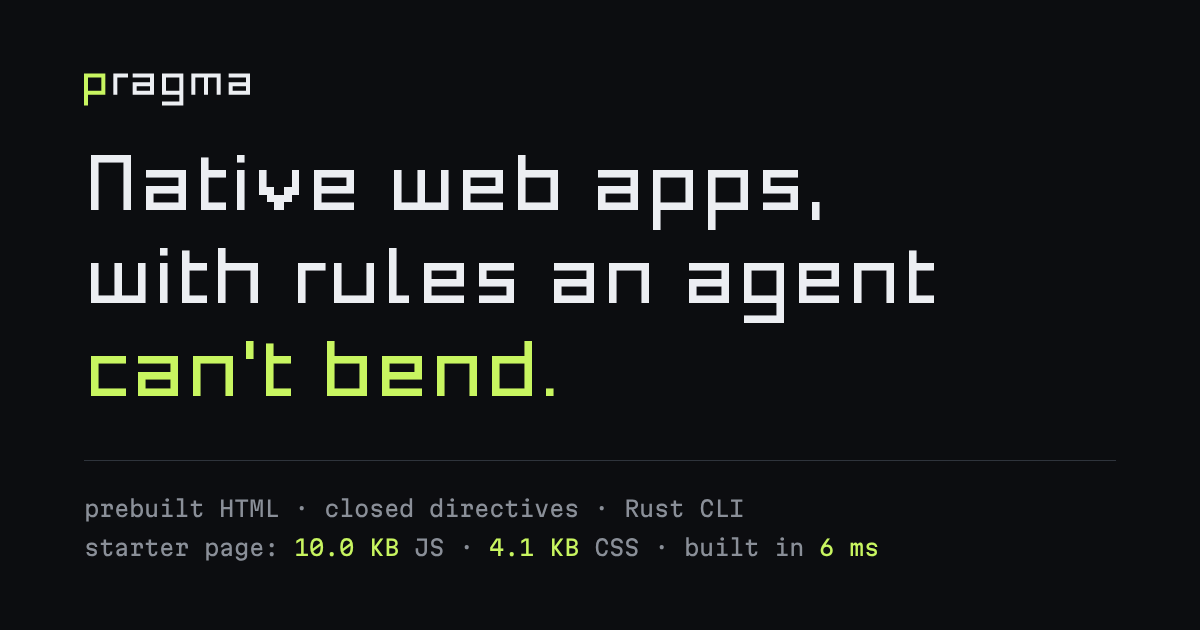
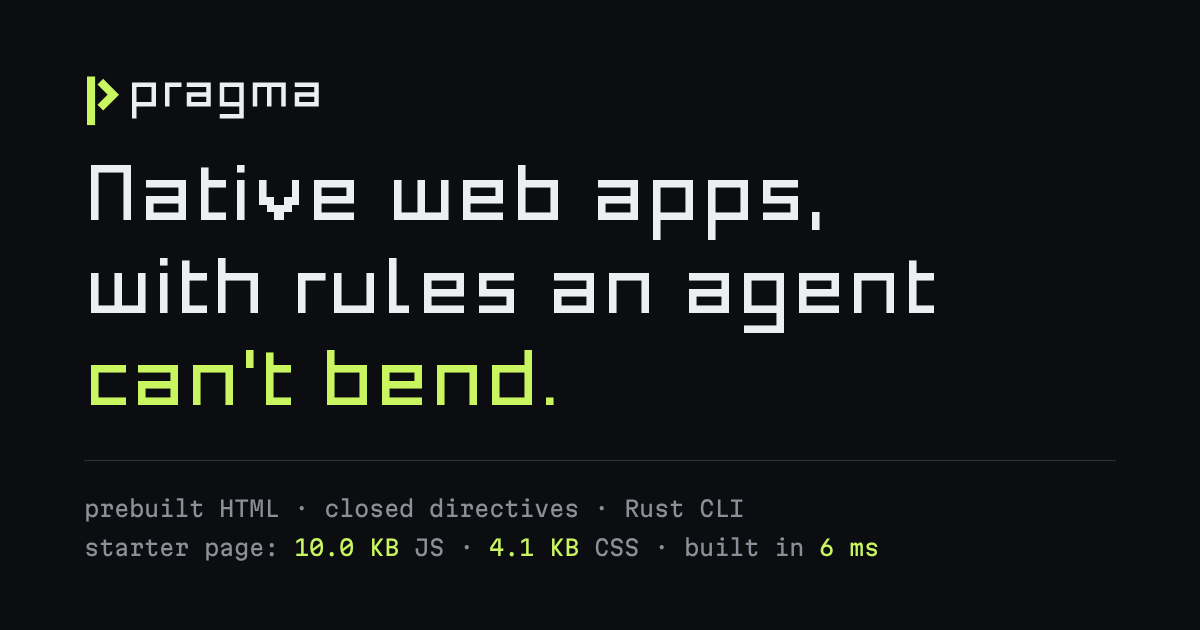
Use the Pipe mark instead of the Reto p
The mark is a bar and a chevron that make a p, as chosen in the logo
proposal. The word "pragma" next to it stays in Pragma Reto. Header,
favicons (site, starter, example), README banner and Open Graph image
use the new mark.

diff --git a/site/routes/_layout.html b/site/routes/_layout.html
@@ -19,8 +19,9 @@
 <a href="#main" class="skip-link bg-accent px-3 py-2 font-mono text-xs text-accent-ink no-underline">Skip to content</a>
 <header class="sticky top-0 z-40 border-b border-line bg-ground">
   <nav class="wrap flex h-14 items-center justify-between gap-3 font-mono text-xs" aria-label="Main">
-    <a href="/" class="flex shrink-0 items-center text-ink no-underline" aria-label="pragma home">
-      <svg width="83" height="22" viewBox="0 -7 124.5 33" fill="currentColor" fill-rule="evenodd" aria-hidden="true"><path class="text-accent" d="M0 1H16V17H3V25H0ZM3 4V14H13V4Z"></path><path d="M22 1H33V4H25V17H22Z"></path><path d="M36.5 1H52.5V17H36.5V7.5H49.5V4H36.5ZM39.5 10.5V14H49.5V10.5Z"></path><path d="M58.5 1H74.5V25H58.5V22H71.5V17H58.5ZM61.5 4V14H71.5V4Z"></path><path d="M80.5 1H102.5V17H99.5V4H93V17H90V4H83.5V17H80.5Z"></path><path d="M108.5 1H124.5V17H108.5V7.5H121.5V4H108.5ZM111.5 10.5V14H121.5V10.5Z"></path></svg>
+    <a href="/" class="flex shrink-0 items-center gap-1.5 text-ink no-underline" aria-label="pragma home">
+      <svg class="size-7 text-accent" viewBox="0 0 32 32" aria-hidden="true"><path d="M8 4H12V28H8Z" fill="currentColor"></path><path d="M16 8L21 13L16 18" fill="none" stroke="currentColor" stroke-width="4" stroke-linecap="square"></path></svg>
+      <svg width="72" height="19" viewBox="0 -7 124.5 33" fill="currentColor" fill-rule="evenodd" aria-hidden="true"><path d="M0 1H16V17H3V25H0ZM3 4V14H13V4Z"></path><path d="M22 1H33V4H25V17H22Z"></path><path d="M36.5 1H52.5V17H36.5V7.5H49.5V4H36.5ZM39.5 10.5V14H49.5V10.5Z"></path><path d="M58.5 1H74.5V25H58.5V22H71.5V17H58.5ZM61.5 4V14H71.5V4Z"></path><path d="M80.5 1H102.5V17H99.5V4H93V17H90V4H83.5V17H80.5Z"></path><path d="M108.5 1H124.5V17H108.5V7.5H121.5V4H108.5ZM111.5 10.5V14H121.5V10.5Z"></path></svg>
     </a>
     <ul class="flex items-center gap-3 sm:gap-6">
       <li><a href="/guide" class="site-link">Guide</a></li>

diff --git a/design/og/og.html b/design/og/og.html
@@ -16,7 +16,7 @@
 </style>
 </head>
 <body>
-  <svg width="166" height="35" viewBox="0 0 124.5 26" fill="#eceef2" fill-rule="evenodd" aria-label="pragma"><path fill="#c8f560" d="M0 1H16V17H3V25H0ZM3 4V14H13V4Z"/><path d="M22 1H33V4H25V17H22Z"/><path d="M36.5 1H52.5V17H36.5V7.5H49.5V4H36.5ZM39.5 10.5V14H49.5V10.5Z"/><path d="M58.5 1H74.5V25H58.5V22H71.5V17H58.5ZM61.5 4V14H71.5V4Z"/><path d="M80.5 1H102.5V17H99.5V4H93V17H90V4H83.5V17H80.5Z"/><path d="M108.5 1H124.5V17H108.5V7.5H121.5V4H108.5ZM111.5 10.5V14H121.5V10.5Z"/></svg>
+  <svg width="240" height="54" viewBox="0 0 160 36" aria-label="pragma"><g transform="translate(-8.80 -2.40) scale(1.350)"><path d="M8 4H12V28H8Z" fill="#c8f560"/><path d="M16 8L21 13L16 18" fill="none" stroke="#c8f560" stroke-width="4" stroke-linecap="square"/></g><g transform="translate(32.00 6.00) scale(1)" fill="#eceef2" fill-rule="evenodd"><path d="M0 1H16V17H3V25H0ZM3 4V14H13V4Z"/><path d="M22 1H33V4H25V17H22Z"/><path d="M36.5 1H52.5V17H36.5V7.5H49.5V4H36.5ZM39.5 10.5V14H49.5V10.5Z"/><path d="M58.5 1H74.5V25H58.5V22H71.5V17H58.5ZM61.5 4V14H71.5V4Z"/><path d="M80.5 1H102.5V17H99.5V4H93V17H90V4H83.5V17H80.5Z"/><path d="M108.5 1H124.5V17H108.5V7.5H121.5V4H108.5ZM111.5 10.5V14H121.5V10.5Z"/></g></svg>
   <h1>Native web apps,<br>with rules an agent<br><span>can't bend.</span></h1>
   <div class="foot">prebuilt HTML · closed directives · Rust CLI<br>starter page: <b>10.0 KB</b> JS · <b>4.1 KB</b> CSS · built in <b>6 ms</b></div>
 </body>

diff --git a/design/README.md b/design/README.md
@@ -4,14 +4,15 @@ Brand sources for pragma. Nothing here ships; the site uses the generated files.
 
 ## Decision (2026-11-21)
 
-The logo is direction "Reto": a letter p with no curves. The word "pragma" in the same shapes is the
-logotype. The first letter is lime (`#c8f560`), the other letters use the ink color. The old `>_` mark
-is not used.
+The mark is direction "Pipe": a bar and a chevron that together make a p. The chevron comes from the
+old `>_` mark. The mark is lime (`#c8f560`). Next to it, the word "pragma" is set in Pragma Reto in the
+ink color. The direction "Reto" (a square p) was used for some hours and then replaced; its files stay
+in `logo/` for reference.
 
 ## Contents
 
 - `logo/index.html`: the proposal page with the five directions (Pipe, Reto, Prompt, Marcador, Tag).
-  `logo/reto.svg` is the favicon. `logo/reto-logotipo.svg` is the logotype.
+  `logo/pipe.svg` is the mark. `logo/pipe-logotipo.svg` is the mark with the word.
 - `font/build_reto.py`: source of the Pragma Reto font. Each glyph is a set of rectangles on a grid
   (stroke 3, x-height 16, cap height 22, descender 8). `font/specimen.html` shows all glyphs.
 - `og/og.html`: source of `site/public/og.png`.

diff --git a/site/README.md b/site/README.md
@@ -94,8 +94,8 @@ Fonts: `--font-display` = Pragma Reto (every `h1`, and `.section-title` on the l
 Martian Mono (other headings and UI, `font-stretch` 75-112%), `font-sans` = Hanken Grotesk (prose).
 Pragma Reto is the brand font: one weight, no curves, 91 glyphs (letters, digits, basic punctuation).
 A missing glyph falls back to Martian Mono. The source is `design/font/build_reto.py` (see
-`design/README.md`). The header logo is the word "pragma" in the same shapes, as inline SVG in
-`routes/_layout.html`; the favicon is the letter p. Global classes: `.wrap`, `.btn` (`.btn-primary`, `.btn-small`), `.nav-link`,
+`design/README.md`). The header logo is the Pipe mark (a bar and a chevron) and the word "pragma" in
+the same shapes, as inline SVG in `routes/_layout.html`; the favicon is the mark. Global classes: `.wrap`, `.btn` (`.btn-primary`, `.btn-small`), `.nav-link`,
 `.prose`, `.doc-section`, `.todo`, `.label`. Code colors: `--code-*` tokens, used by
 `::highlight(code-*)` in the showcase and by `[data-hl]` in the SEO response view.
 
